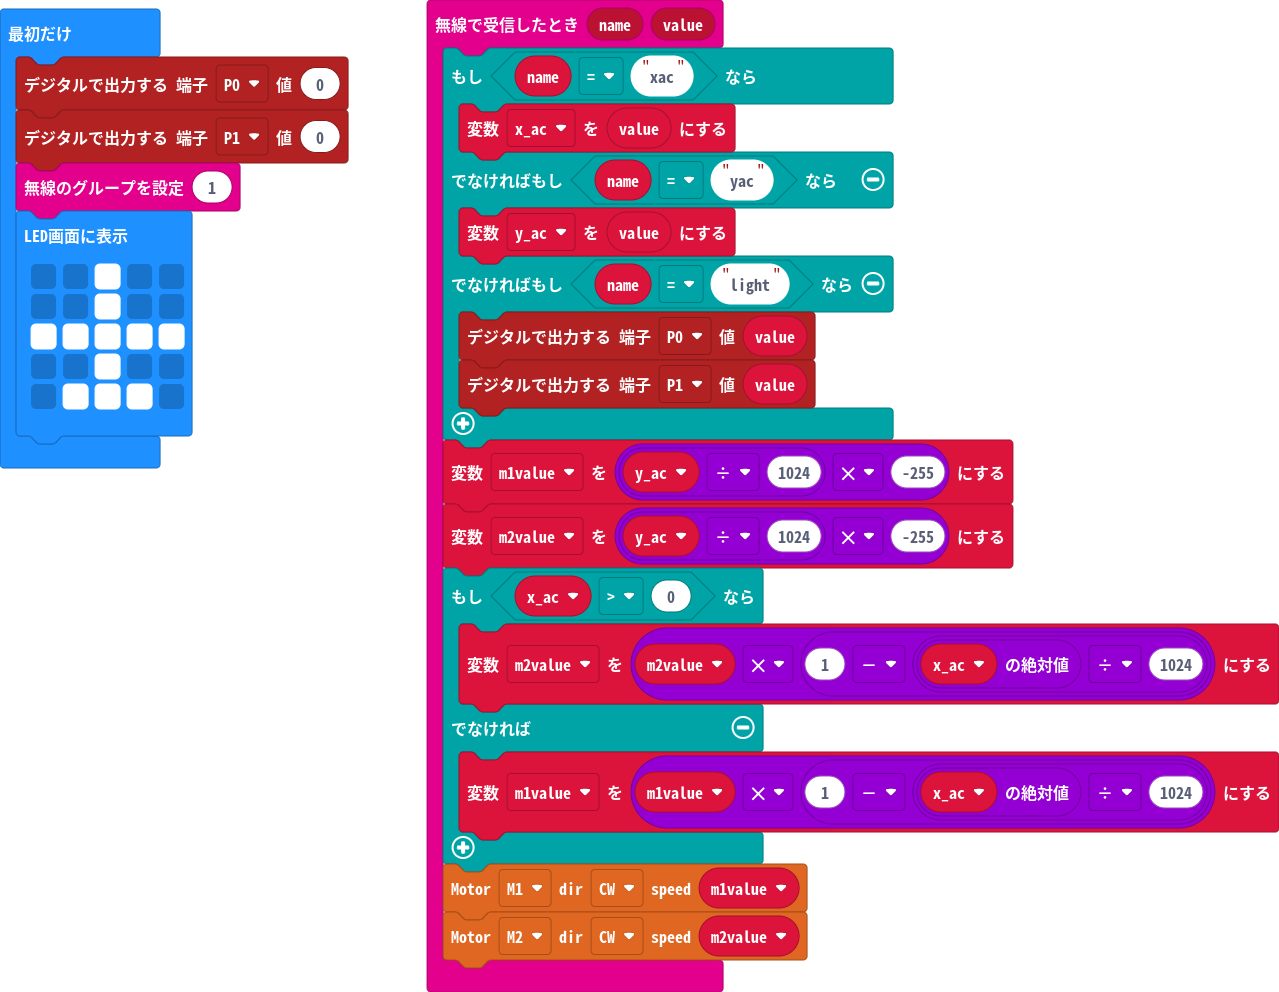
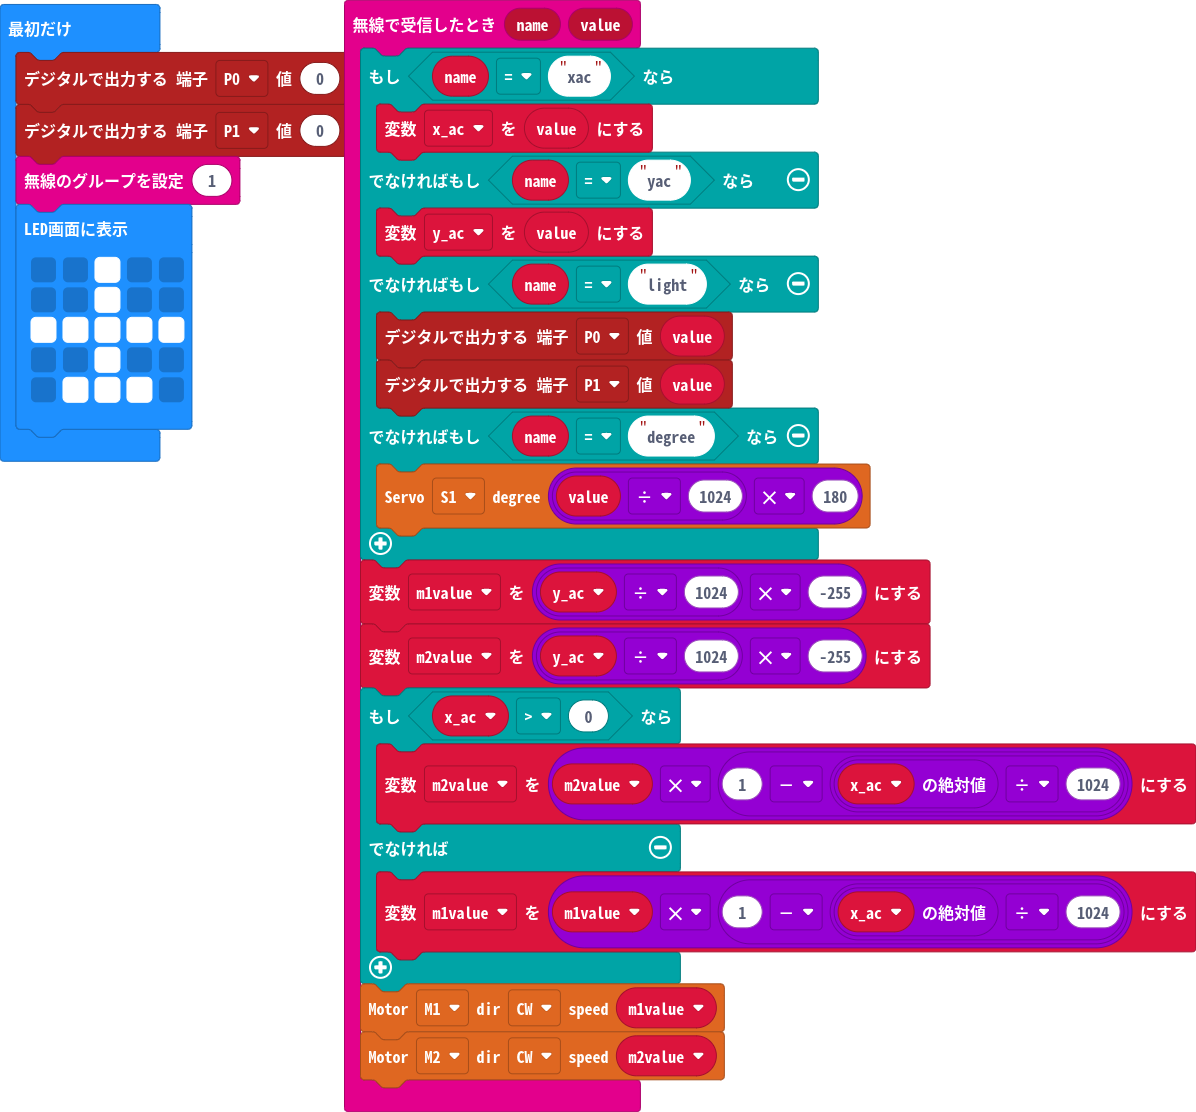
砲塔のサーボ制御を導入

diff --git a/main.ts b/main.ts
@@ -6,6 +6,8 @@ radio.onReceivedValue(function (name, value) {
     } else if (name == "light") {
         pins.digitalWritePin(DigitalPin.P0, value)
         pins.digitalWritePin(DigitalPin.P1, value)
+    } else if (name == "degree") {
+        motor.servo(motor.Servos.S1, value / 1024 * 180)
     }
     m1value = y_ac / 1024 * -255
     m2value = y_ac / 1024 * -255
